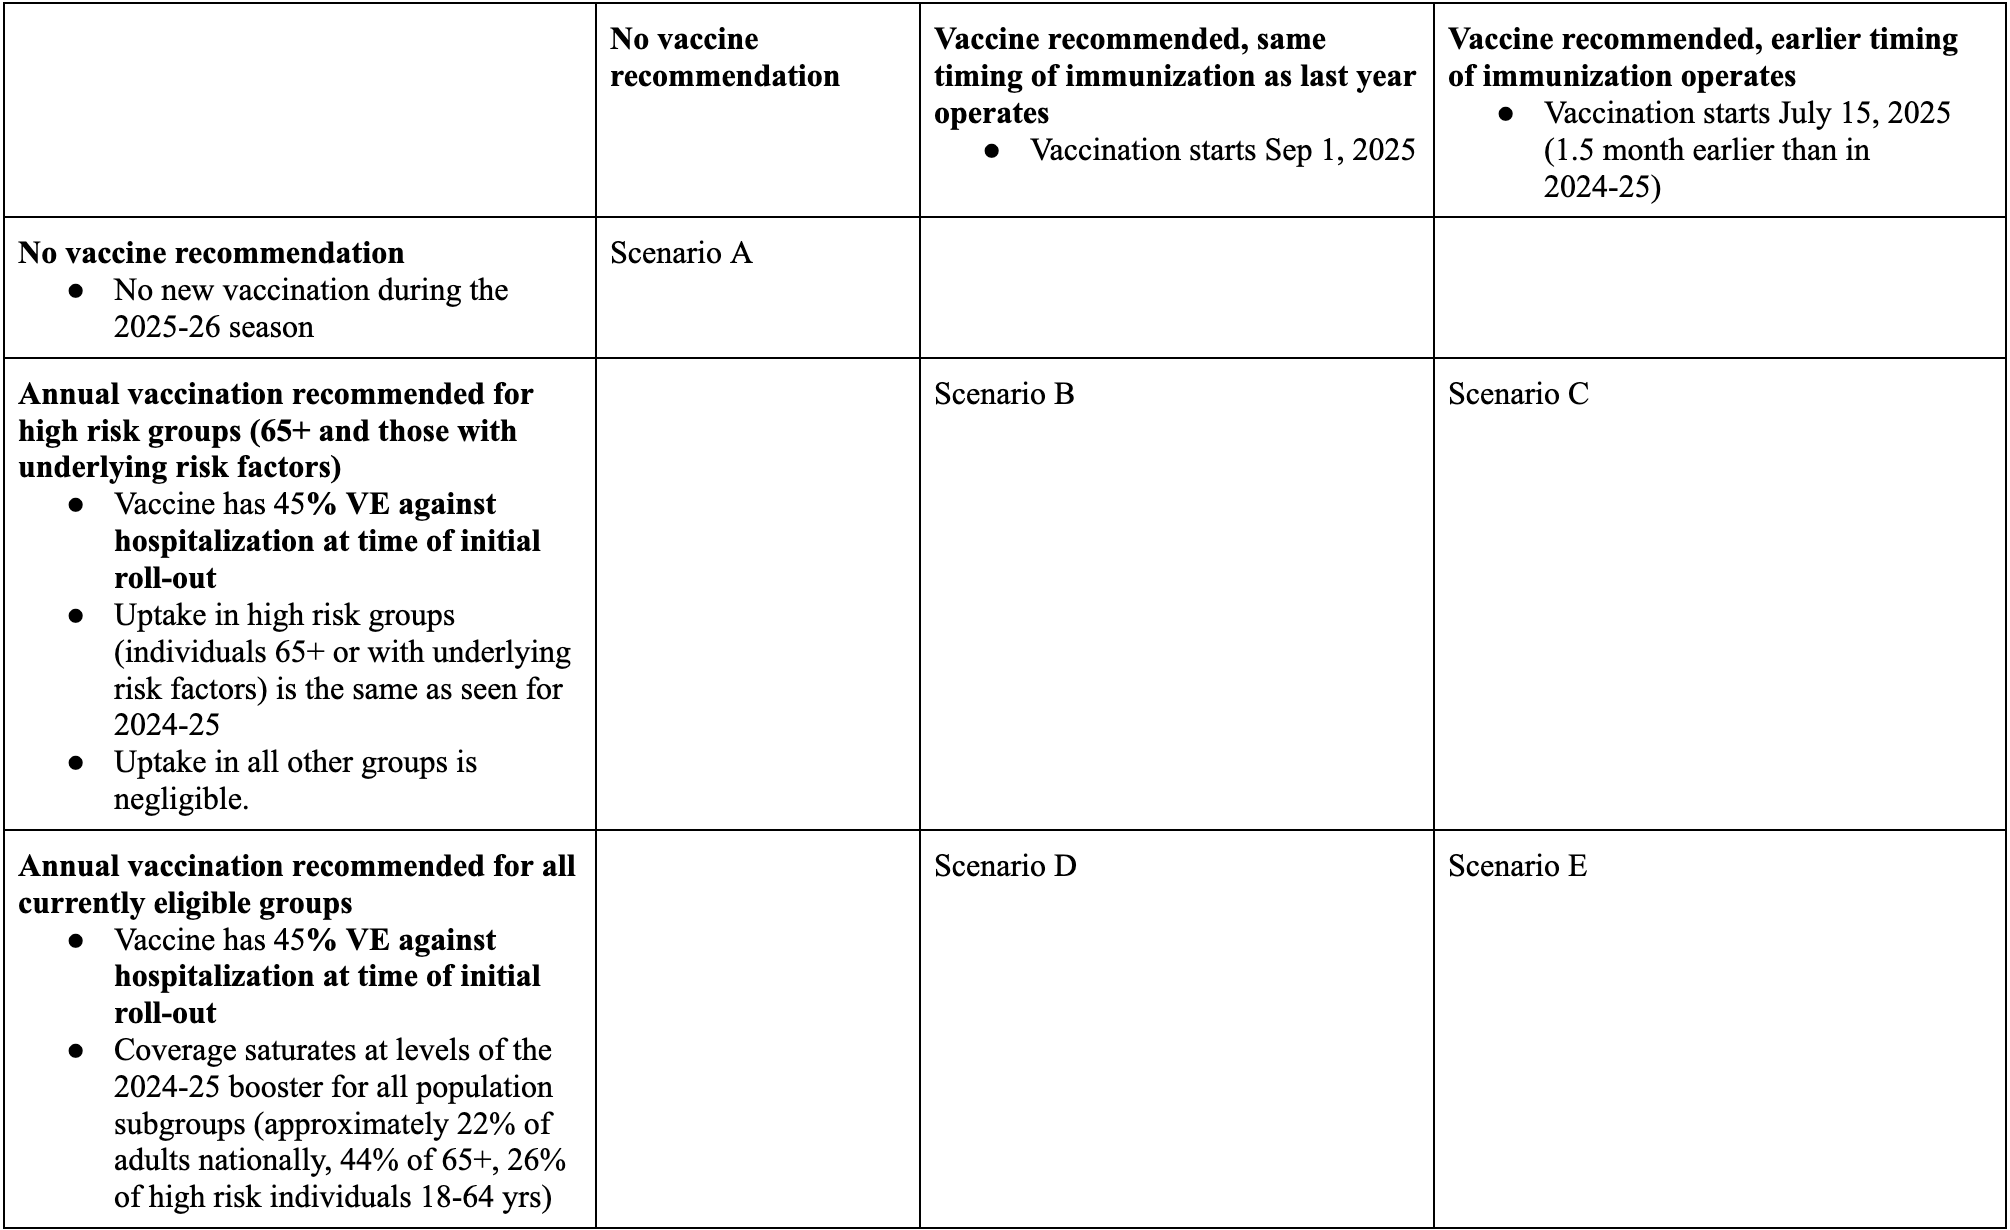
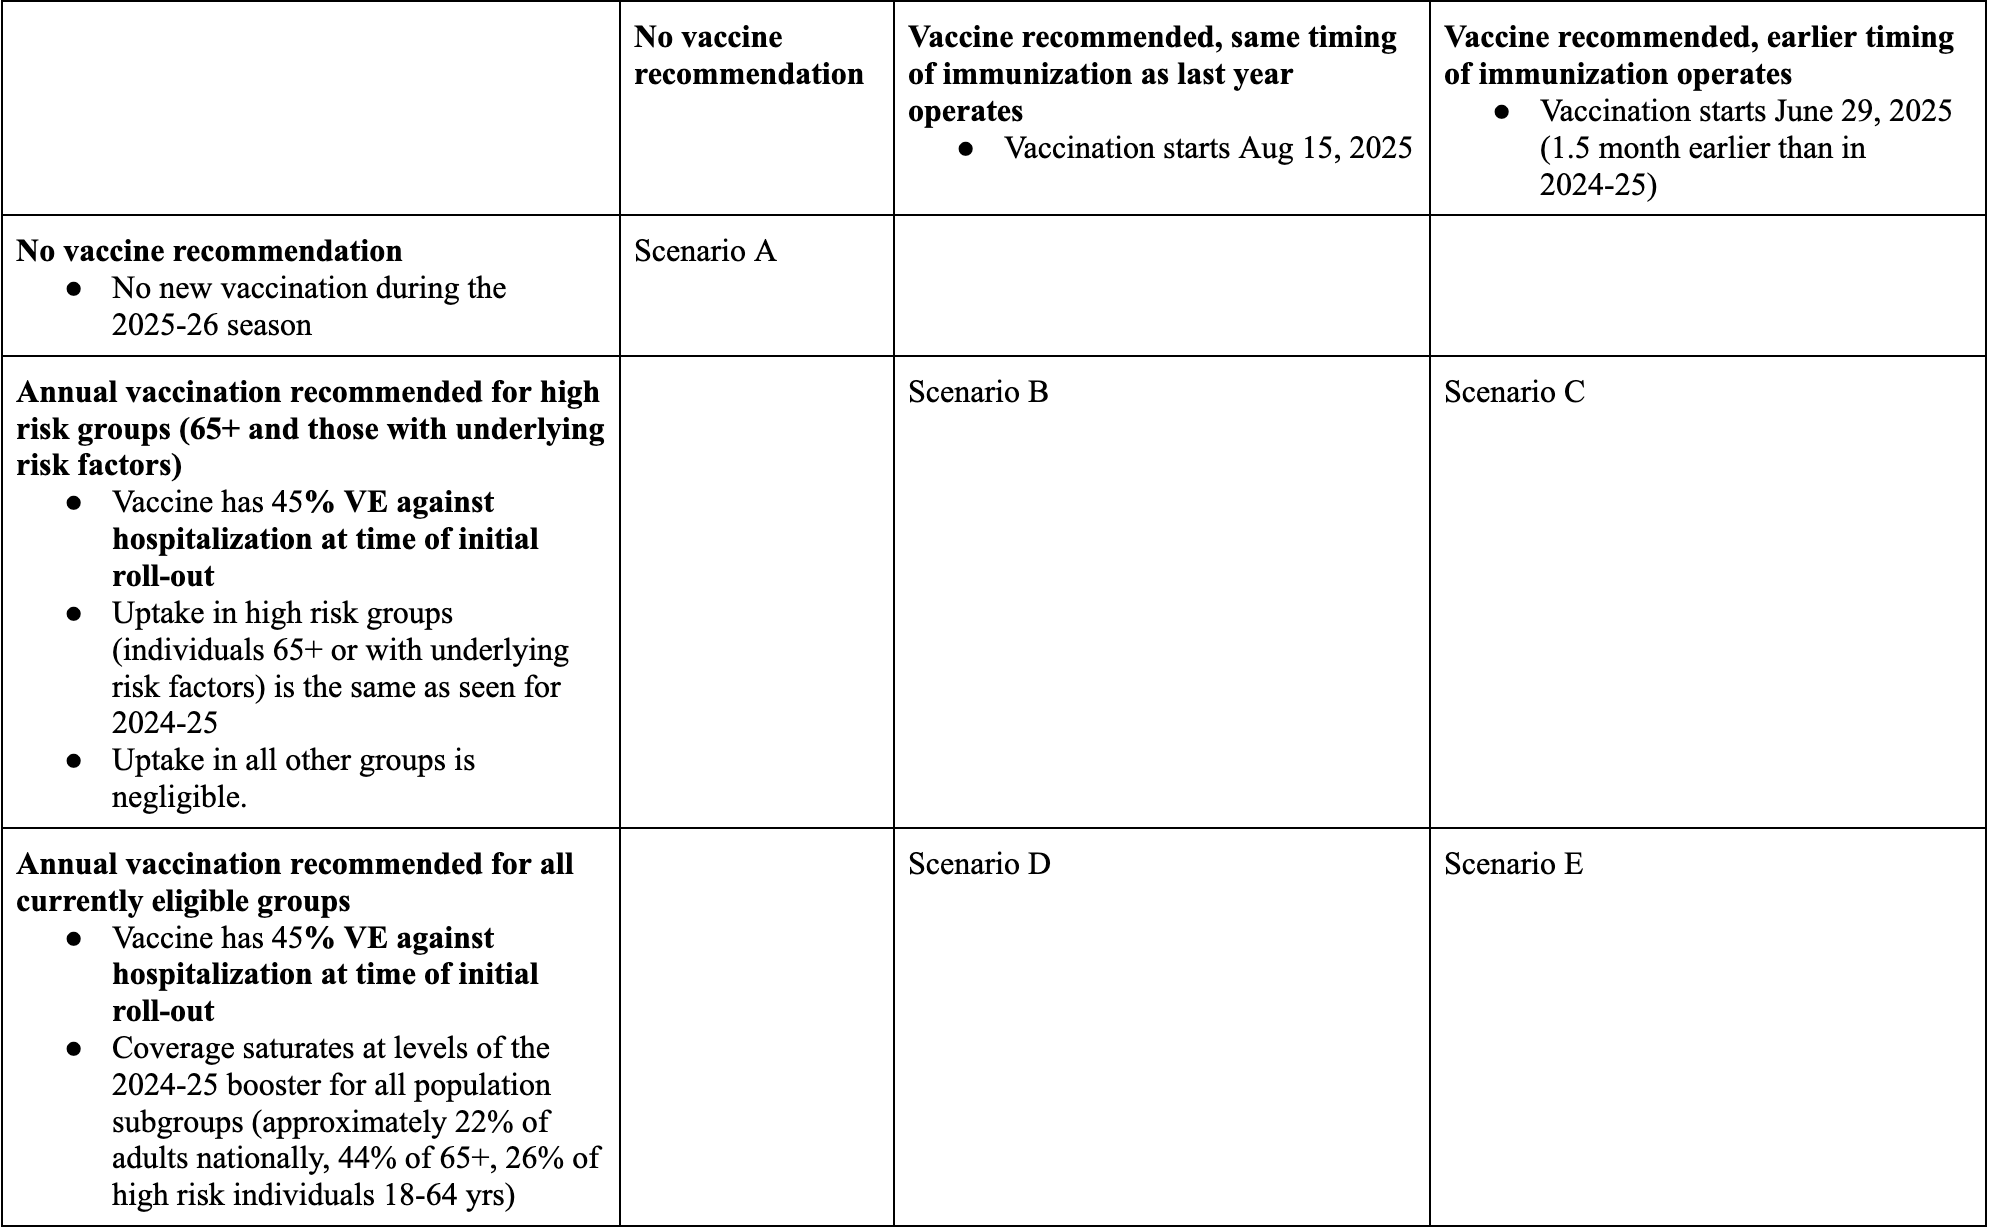
update scenario timing information

Changed region(s): [[0.0, 0.0, 0.997, 0.9902], [0.4362, 0.6498, 0.5296, 0.7117], [0.7166, 0.6808, 0.8101, 0.7117]]

diff --git a/README.md b/README.md
@@ -2,7 +2,7 @@
 
 [![DOI](https://zenodo.org/badge/DOI/10.5281/zenodo.6584489.svg)](https://doi.org/10.5281/zenodo.6584489)
 
-Last updated: 2025-04-02 for **Round 19 Scenarios**.
+Last updated: 2025-05-29 for **Round 19 Scenarios**.
 
 ## Previous Round Scenarios and Results:
 
@@ -110,7 +110,7 @@ April 27, 2025 to Sat April 25, 2026 (52 weeks).
 In all scenarios, boosters are expected to match the predominant variants 
 circulating on June 30, 2025.  **Teams should use VE against COVID-19 
 hospitalization = 45% at the start of the vaccination campaign (either 
-July 15 or Sep 1, 2025)**, in line with a 
+June 29 or August 15, 2025)**, in line with a 
 [recent US](https://www.cdc.gov/mmwr/volumes/74/wr/mm7406a1.htm) analysis 
 of hospitalizations during September-December 2024. We note that in this 
 study, VE against hospitalization was similar 0-2 vs 3-4 months after 
@@ -134,10 +134,10 @@ in the range 35-57% at the start of the vaccination campaign (see
 for detailed studies).
 
 Two mechanisms will result in an effective decrease from the stated VE of 45% 
-against hospitalization.  The first mechanism is immune escape, with circulating 
-strains moving gradually away from the vaccine. In this round, immune escape 
-against infection and severe disease is at teams’ discretion (we return to this 
-later).
+against hospitalization at the start of the vaccination campaign. The first 
+mechanism is immune escape, with circulating strains moving gradually away 
+from the vaccine. In this round, immune escape against infection and severe 
+disease is at teams’ discretion (we return to this later).
 
 The second mechanism is waning of immunity against infection, due to decline in 
 immune responses over time. This applies to both vaccine-induced and natural 
@@ -152,15 +152,15 @@ should wane at slower timescale than against infection).
 
 In this round, we consider two different timings of vaccination. Scenarios B and 
 D correspond to a “classic” timing of initiation of the seasonal vaccination 
-campaign, with a start on Sep 1, 2025. This is the timing that is expected to 
-operate in the 2025-26 season. We also consider hypothetical scenarios C and E, 
-where vaccination is pushed 1.5 month earlier and starts on July 15, 2025 (meaning 
-that the entire vaccine manufacturing and delivery process is moved earlier in time). 
-These hypothetical scenarios may be useful to project the potential value of earlier 
-vaccination campaigns in future COVID19 seasons, in light of substantial summer 
-waves of COVID-19 observed in recent years.  Vaccine coverage curves is 
-provided for all scenarios and reflects the stipulated timing of vaccination 
-in each scenario (available in the 
+campaign, with a start on Aug 15, 2025. This is the timing that was observed in the
+2024-25 season and which is expected to operate in the 2025-26 season. We also 
+consider hypothetical scenarios C and E, where vaccination is pushed 1.5 month 
+earlier and starts on June 29, 2025 (meaning that the entire vaccine manufacturing 
+and delivery process is moved earlier in time). These hypothetical scenarios may be 
+useful to project the potential value of earlier vaccination campaigns in future 
+COVID19 seasons, in light of substantial summer waves of COVID-19 observed in 
+recent years.  Vaccine coverage curves is provided for all scenarios and reflects 
+the stipulated timing of vaccination in each scenario (available in the 
 [auxiliary-data/vaccination-coverage](./auxiliary-data/vaccination-coverage/) folder).
 
 
@@ -196,8 +196,9 @@ underlying conditions putting them at increased risk of severe outcomes from COV
 Data on the population size and vaccine coverage of high and low risk groups is provided 
 by state and age in GitHub. Teams can choose to adjust VE for high-risk and low-risk 
 groups based on available evidence, although the population-level average VE against 
-hospitalization should equal 45% on September 1. Data on increased risk of COVID-19 
-hospitalization from high risk groups can be found 
+hospitalization should equal 45% at the start of the vaccination campaign (ie, on August 
+15 for scenarios B and D and on June 29 for scenarios C and E). Data on increased risk of 
+COVID-19 hospitalization from high risk groups can be found 
 [here](https://academic.oup.com/cid/article/72/11/e695/5908300). If teams wish to 
 adjust VE based on specific risk conditions, they can refer to data on VE in 
 immunocompromised populations 

diff --git a/auxiliary-data/rounds/round19.md b/auxiliary-data/rounds/round19.md
@@ -14,7 +14,7 @@ April 27, 2025 to Sat April 25, 2026 (52 weeks).
 In all scenarios, boosters are expected to match the predominant variants 
 circulating on June 30, 2025.  **Teams should use VE against COVID-19 
 hospitalization = 45% at the start of the vaccination campaign (either 
-July 15 or Sep 1, 2025)**, in line with a 
+June 29 or August 15, 2025)**, in line with a 
 [recent US](https://www.cdc.gov/mmwr/volumes/74/wr/mm7406a1.htm) analysis 
 of hospitalizations during September-December 2024. We note that in this 
 study, VE against hospitalization was similar 0-2 vs 3-4 months after 
@@ -38,10 +38,10 @@ in the range 35-57% at the start of the vaccination campaign (see
 for detailed studies).
 
 Two mechanisms will result in an effective decrease from the stated VE of 45% 
-against hospitalization.  The first mechanism is immune escape, with circulating 
-strains moving gradually away from the vaccine. In this round, immune escape 
-against infection and severe disease is at teams’ discretion (we return to this 
-later).
+against hospitalization at the start of the vaccination campaign. The first 
+mechanism is immune escape, with circulating strains moving gradually away 
+from the vaccine. In this round, immune escape against infection and severe 
+disease is at teams’ discretion (we return to this later).
 
 The second mechanism is waning of immunity against infection, due to decline in 
 immune responses over time. This applies to both vaccine-induced and natural 
@@ -56,15 +56,14 @@ should wane at slower timescale than against infection).
 
 In this round, we consider two different timings of vaccination. Scenarios B and 
 D correspond to a “classic” timing of initiation of the seasonal vaccination 
-campaign, with a start on Sep 1, 2025. This is the timing that is expected to 
-operate in the 2025-26 season. We also consider hypothetical scenarios C and E, 
-where vaccination is pushed 1.5 month earlier and starts on July 15, 2025 (meaning 
-that the entire vaccine manufacturing and delivery process is moved earlier in time). 
-These hypothetical scenarios may be useful to project the potential value of earlier 
-vaccination campaigns in future COVID19 seasons, in light of substantial summer 
-waves of COVID-19 observed in recent years.  Vaccine coverage curves is 
-provided for all scenarios and reflects the stipulated timing of vaccination 
-in each scenario (available in the 
+campaign, with a start on Aug 15, 2025. This is the timing that was observed in the
+2024-25 season and which is expected to operate in the 2025-26 season. We also 
+consider hypothetical scenarios C and E, where vaccination is pushed 1.5 month 
+earlier and starts on June 29, 2025 (meaning that the entire vaccine manufacturing 
+and delivery process is moved earlier in time). These hypothetical scenarios may be 
+COVID19 seasons, in light of substantial summer waves of COVID-19 observed in 
+recent years.  Vaccine coverage curves is provided for all scenarios and reflects 
+the stipulated timing of vaccination in each scenario (available in the 
 [auxiliary-data/vaccination-coverage](https://github.com/midas-network/covid19-scenario-modeling-hub/tree/main/auxiliary-data/vaccination-coverage/) folder).
 
 
@@ -100,8 +99,9 @@ underlying conditions putting them at increased risk of severe outcomes from COV
 Data on the population size and vaccine coverage of high and low risk groups is provided 
 by state and age in GitHub. Teams can choose to adjust VE for high-risk and low-risk 
 groups based on available evidence, although the population-level average VE against 
-hospitalization should equal 45% on September 1. Data on increased risk of COVID-19 
-hospitalization from high risk groups can be found 
+hospitalization should equal 45% at the start of the vaccination campaign (ie, on August 
+15 for scenarios B and D and on June 29 for scenarios C and E). Data on increased risk of 
+COVID-19 hospitalization from high risk groups can be found 
 [here](https://academic.oup.com/cid/article/72/11/e695/5908300). If teams wish to 
 adjust VE based on specific risk conditions, they can refer to data on VE in 
 immunocompromised populations 
